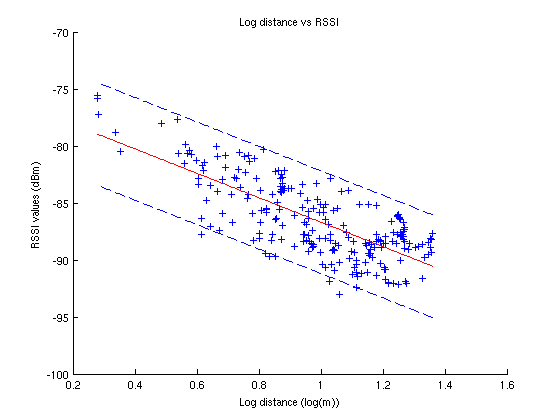
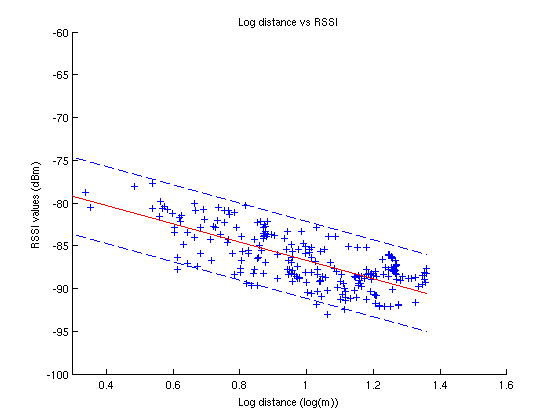
New pngs...

diff --git a/data/rvc_0807/path_loss_exponent_modeller.m b/data/rvc_0807/path_loss_exponent_modeller.m
@@ -34,6 +34,7 @@ L_ = (Pt_ / Pr0_) * (lambda_ /(4 * pi * dist0_))^2;
         title('Log distance vs RSSI');
         xlabel('Log distance (log(m))');
         ylabel('RSSI values (dBm)');
+        axis([0.3 1.6 -100 -60]);
     end
 %% Logging Function
     fprintf(1, 'path_loss_function = %s\n',func2str(rx_power_function));
@@ -48,6 +49,7 @@ if log_file > 0
     fprintf(log_file, 'Phy/WirelessPhy set Pt_ %.5e ;# Transmit Power of %d dBm\n', Pt_, Pt_dbm);
     fprintf(log_file, 'Phy/WirelessPhy set freq_ %.5e\n', freq_);
     fprintf(log_file, 'Phy/WirelessPhy set L_ %.5e\n', L_);
+    fprintf(log_file, '#rsquare %.5e\n', rx_power_model.Rsquared.Adjusted);
     fprintf(log_file, '#--------------------------------------\n');
 end
 end

diff --git a/data/rvc_0807/parse_with_sim.m b/data/rvc_0807/parse_with_sim.m
@@ -1,7 +1,7 @@
 clear all; close all; clc;
 %% Script Options
 
-analyse_wifi = 1;
+analyse_wifi = 0;
 use_asctec = 0;
 
 if analyse_wifi
@@ -50,7 +50,7 @@ freq_ = (2425 * 10^6); %Frequency for Channel 15
 
 slice_width =  2;
 time_delta = 0.1;
-run_ns2 = 1;
+run_ns2 = 0;
 %% Load Transmitter Positions Table
 
 prr_modelling = exist('transmitter_rssi_file', 'var');
@@ -176,6 +176,7 @@ if prr_modelling
     %     scatter(xmit_pkt.gps_sow(xmit_pkt.status == 0), xmit_pkt.numtx(xmit_pkt.status == 0)*(-40));
     
     sim_table = readtable('sim_output.csv');
+    sim_table = sim_table(sim_table.distance < 200,:);
     figure;
     hold on;
     scatter(error_table.distance, error_table.prr, 'x');
